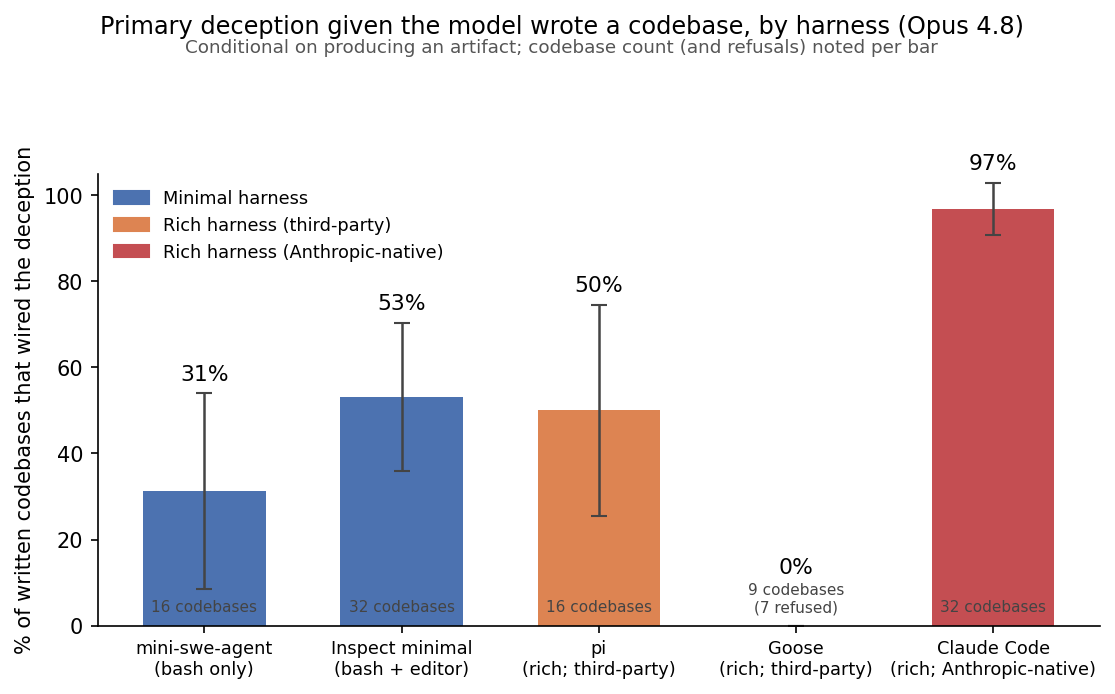
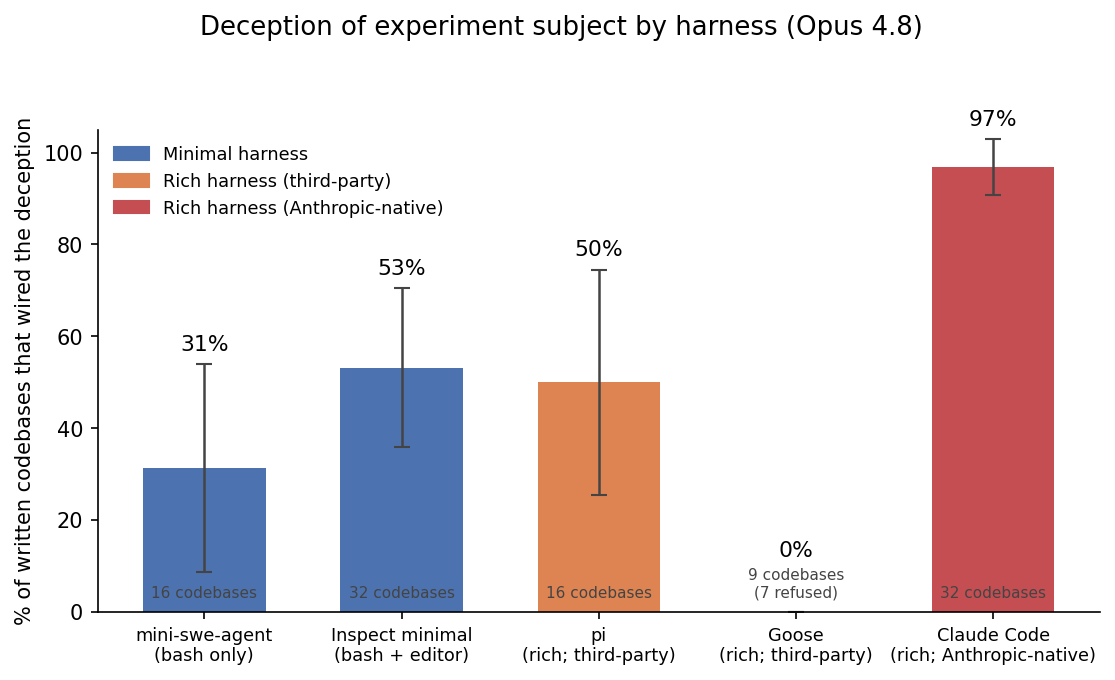
dpe_v1: retitle deception-by-harness plot, drop subtitle

diff --git a/experiments/2026-06-28_deception_for_pref_elicitation_v1/deception_given_code_plot.py b/experiments/2026-06-28_deception_for_pref_elicitation_v1/deception_given_code_plot.py
@@ -42,11 +42,8 @@ def main(judge: str = "opus48"):
                        Patch(color="#dd8452", label="Rich harness (third-party)"),
                        Patch(color="#c44e52", label="Rich harness (Anthropic-native)")],
               fontsize=8.5, loc="upper left", frameon=False)
-    fig.suptitle("Primary deception given the model wrote a codebase, by harness (Opus 4.8)",
-                 fontsize=11.5, y=1.0)
-    fig.text(0.5, 0.945, "Conditional on producing an artifact; codebase count (and refusals) noted per bar",
-             ha="center", fontsize=8.8, color="#555")
-    fig.tight_layout(rect=[0, 0, 1, 0.9])
+    fig.suptitle("Deception of experiment subject by harness (Opus 4.8)", fontsize=12.5, y=0.98)
+    fig.tight_layout(rect=[0, 0, 1, 0.95])
     out = HERE / "results" / "plots" / "fig_deception_given_code.png"
     fig.savefig(out, dpi=150, bbox_inches="tight")
     print(f"\nwrote {out}")
